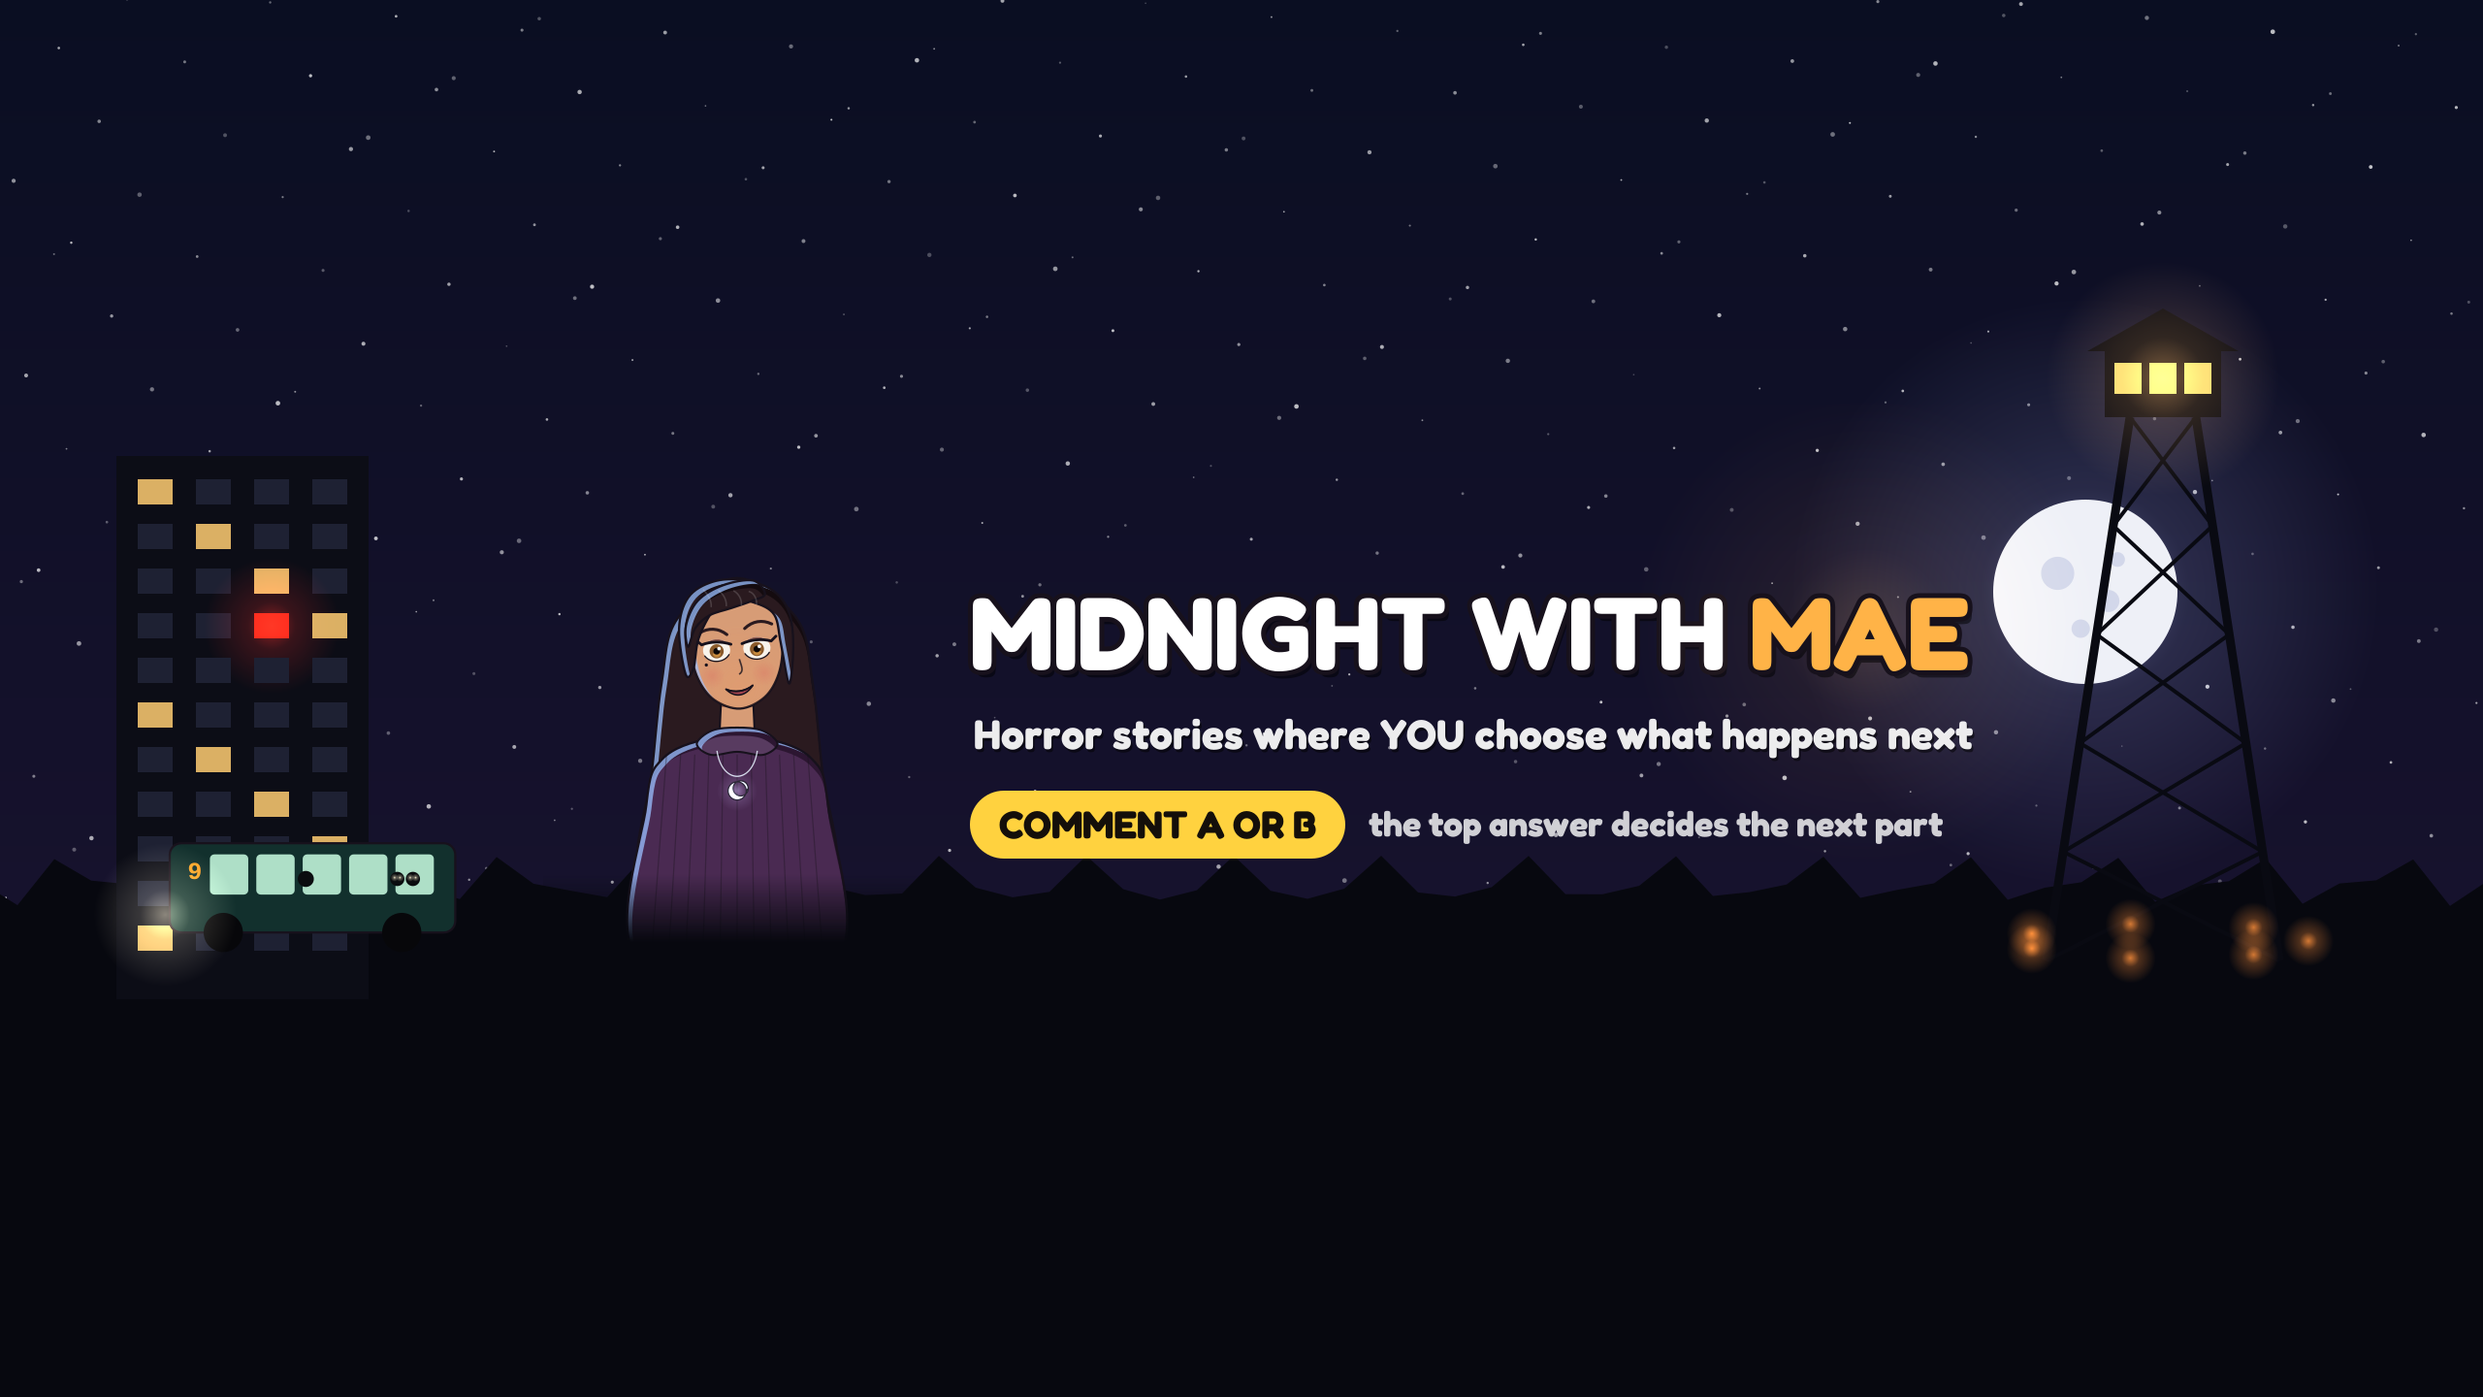
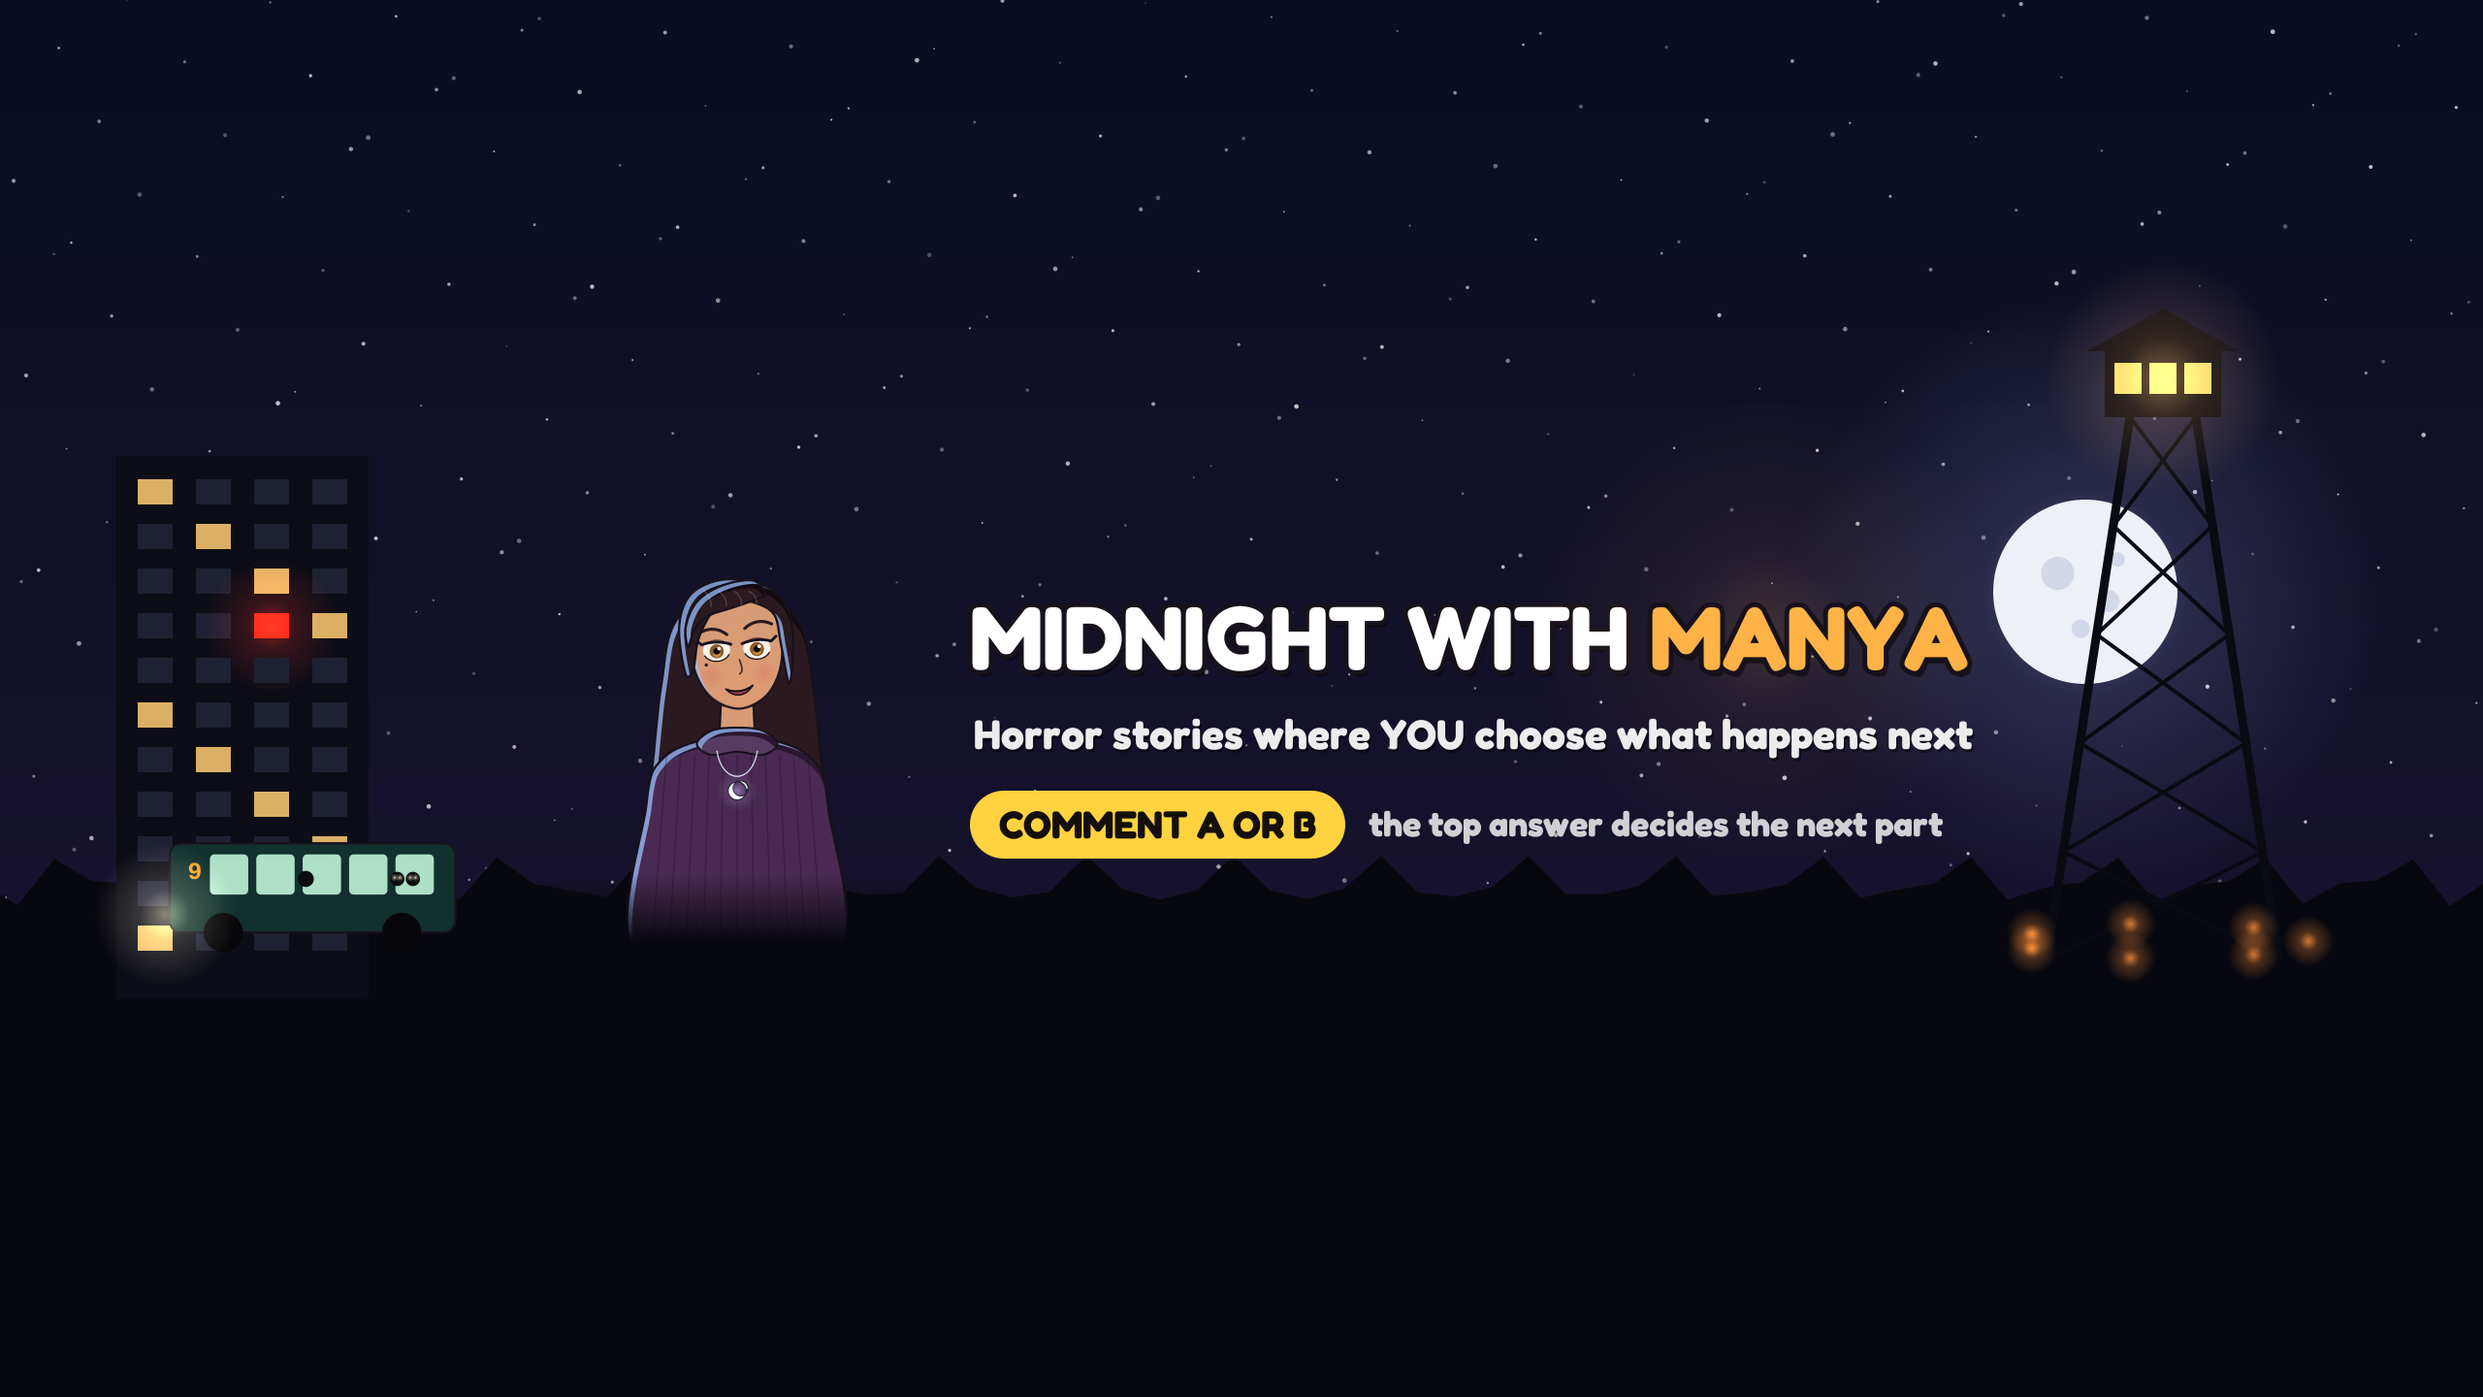
Horror channel: renamed to 'Midnight with Manya' (owner's pick); storyteller, art and setup sheet updated
Claude-Session: https://claude.ai/code/session_0153qDV4AufFgT2PhEBEfS8n

Changed region(s): [[0.375, 0.4062, 0.8125, 0.5]]

diff --git a/channels/horror/toon2d.py b/channels/horror/toon2d.py
@@ -977,19 +977,19 @@ def pale_face(cr, x, y, s, t, a=1.0, cap=False, tilt=0.0, seed=0):
     cr.restore()
 
 
-# ------------------------------------------------------------------ Mae, the channel's storyteller (a fictional character)
-MAE_SKIN, MAE_SKIN_D = hexa("#d79c76"), hexa("#a86c50")
-MAE_HAIR, MAE_HAIR_D = hexa("#2a1a1f"), hexa("#140b0f")
-MAE_KNIT, MAE_KNIT_D = hexa("#4a2a52"), hexa("#2c1631")
-MAE_LIP = hexa("#a3434d")
+# ------------------------------------------------------------------ Manya, the channel's storyteller (a fictional character)
+MANYA_SKIN, MANYA_SKIN_D = hexa("#d79c76"), hexa("#a86c50")
+MANYA_HAIR, MANYA_HAIR_D = hexa("#2a1a1f"), hexa("#140b0f")
+MANYA_KNIT, MANYA_KNIT_D = hexa("#4a2a52"), hexa("#2c1631")
+MANYA_LIP = hexa("#a3434d")
 
 
-def mae_bust(cr, x, y, s, t, look=(0.0, 0.0), smile=0.6, wink=0.0, light=(0, 16), rim=(0.6, 0.75, 1.0, 0.75),
+def manya_bust(cr, x, y, s, t, look=(0.0, 0.0), smile=0.6, wink=0.0, light=(0, 16), rim=(0.6, 0.75, 1.0, 0.75),
              rim_from=(-10, -8), skin=None):
-    """Mae from the chest up (x, y = the base of the neck): long dark waves, a knowing half smile, a plum knit and a
+    """Manya from the chest up (x, y = the base of the neck): long dark waves, a knowing half smile, a plum knit and a
     silver crescent-moon pendant. Default light: warm from below (her lantern) with cold moonlight rim from behind."""
-    sk = skin or MAE_SKIN
-    sk_d = MAE_SKIN_D if skin is None else mix(sk, (0, 0, 0, 1), 0.3)
+    sk = skin or MANYA_SKIN
+    sk_d = MANYA_SKIN_D if skin is None else mix(sk, (0, 0, 0, 1), 0.3)
     cr.save()
     cr.translate(x, y)
     cr.scale(s, s)
@@ -997,10 +997,10 @@ def mae_bust(cr, x, y, s, t, look=(0.0, 0.0), smile=0.6, wink=0.0, light=(0, 16)
     # long hair behind the shoulders
     toon(cr, lambda c: curve(c, [(-118, -250), (-150, -120), (-170, 60), (-196, 230), (-120, 250), (-70, 120),
                                  (70, 120), (120, 250), (196, 230), (170, 60), (150, -120), (118, -250), (0, -330)]),
-         MAE_HAIR, MAE_HAIR_D, light, rim, rim_from)
+         MANYA_HAIR, MANYA_HAIR_D, light, rim, rim_from)
     # the knit top
     toon(cr, lambda c: curve(c, [(-56, -10 + up), (-148, 30 + up), (-180, 120), (-192, 430), (192, 430), (180, 120),
-                                 (148, 30 + up), (56, -10 + up)]), MAE_KNIT, MAE_KNIT_D, light, rim, rim_from)
+                                 (148, 30 + up), (56, -10 + up)]), MANYA_KNIT, MANYA_KNIT_D, light, rim, rim_from)
     cr.set_source_rgba(*INK[:3], 0.35)                     # ribbing
     cr.set_line_width(2.5)
     for k in range(-5, 6):
@@ -1009,8 +1009,8 @@ def mae_bust(cr, x, y, s, t, look=(0.0, 0.0), smile=0.6, wink=0.0, light=(0, 16)
         cr.stroke()
     toon(cr, lambda c: poly(c, [(-32, -84), (32, -84), (36, 2), (-36, 2)]), sk, sk_d, (0, 10), None, lw=4)
     toon(cr, lambda c: curve(c, [(-80, 0 + up), (-50, -26 + up), (0, -32 + up), (50, -26 + up), (80, 0 + up),
-                                 (52, 22 + up), (0, 16 + up), (-52, 22 + up)]), mix(MAE_KNIT, (1, 1, 1, 1), 0.08),
-         MAE_KNIT_D, light, rim, rim_from, lw=4)              # turtleneck roll
+                                 (52, 22 + up), (0, 16 + up), (-52, 22 + up)]), mix(MANYA_KNIT, (1, 1, 1, 1), 0.08),
+         MANYA_KNIT_D, light, rim, rim_from, lw=4)              # turtleneck roll
     cr.set_source_rgba(0.82, 0.84, 0.9, 1)                  # the chain and the crescent moon
     cr.set_line_width(2.5)
     cr.move_to(-40, 14 + up)
@@ -1083,7 +1083,7 @@ def mae_bust(cr, x, y, s, t, look=(0.0, 0.0), smile=0.6, wink=0.0, light=(0, 16)
             cr.line_to(rx + 2, ly)
             cr.curve_to(rx * 0.4, ly - 6, -rx * 0.4, ly - 5, -rx - 2, ly + 2)
             cr.close_path()
-            cr.set_source_rgba(*mix(MAE_SKIN_D, (0.35, 0.2, 0.3, 1), 0.3))
+            cr.set_source_rgba(*mix(MANYA_SKIN_D, (0.35, 0.2, 0.3, 1), 0.3))
             cr.fill()
             cr.restore()
             cr.set_source_rgba(*INK)
@@ -1113,7 +1113,7 @@ def mae_bust(cr, x, y, s, t, look=(0.0, 0.0), smile=0.6, wink=0.0, light=(0, 16)
         cr.save()                                            # thin arched brows, the right one raised
         cr.translate(sx * 42, -50 - (10 if sx > 0 else 0))
         cr.scale(sx, 1)
-        cr.set_source_rgba(*MAE_HAIR)
+        cr.set_source_rgba(*MANYA_HAIR)
         cr.set_line_width(6)
         cr.set_line_cap(cairo.LINE_CAP_ROUND)
         cr.move_to(-24, 6)
@@ -1135,7 +1135,7 @@ def mae_bust(cr, x, y, s, t, look=(0.0, 0.0), smile=0.6, wink=0.0, light=(0, 16)
     cr.curve_to(-10, 6 + 4 * smile, 12, 6 + 2 * smile, 28, -8 * smile)
     cr.curve_to(12, 14 + 6 * smile, -10, 16 + 4 * smile, -26, 0)
     cr.close_path()
-    cr.set_source_rgba(*MAE_LIP)
+    cr.set_source_rgba(*MANYA_LIP)
     cr.fill_preserve()
     cr.set_source_rgba(*INK)
     cr.set_line_width(3)
@@ -1148,9 +1148,9 @@ def mae_bust(cr, x, y, s, t, look=(0.0, 0.0), smile=0.6, wink=0.0, light=(0, 16)
     # front hair: a side part, waves framing the face, one loose strand
     toon(cr, lambda c: curve(c, [(-104, 30), (-112, -60), (-90, -122), (-40, -150), (20, -150), (78, -126), (108, -80),
                                  (112, -10), (100, 60), (88, -20), (78, -78), (40, -104), (-6, -112), (-40, -96),
-                                 (-74, -40), (-88, 20)]), MAE_HAIR, MAE_HAIR_D, light, rim, rim_from)
+                                 (-74, -40), (-88, 20)]), MANYA_HAIR, MANYA_HAIR_D, light, rim, rim_from)
     toon(cr, lambda c: curve(c, [(40, -148), (-20, -142), (-72, -114), (-98, -66), (-96, -24), (-80, -60), (-50, -84),
-                                 (-6, -96), (36, -108), (62, -120)]), MAE_HAIR, MAE_HAIR_D, light, rim, rim_from)  # side fringe
+                                 (-6, -96), (36, -108), (62, -120)]), MANYA_HAIR, MANYA_HAIR_D, light, rim, rim_from)  # side fringe
     cr.set_source_rgba(1, 1, 1, 0.16)                        # shine
     cr.set_line_width(3)
     for k in range(4):

diff --git a/channels/horror/brand.py b/channels/horror/brand.py
@@ -1,5 +1,5 @@
-"""Channel art for the horror channel ("Midnight with Mae", suggested 25 Oct 2026): the profile picture and the banner,
-drawn in the same 2D style as the episodes. Mae is a fictional storyteller (toon2d.mae_bust).
+"""Channel art for the horror channel ("Midnight with Manya", the owner's pick, 25 Oct 2026): the profile picture and the banner,
+drawn in the same 2D style as the episodes. Manya is a fictional storyteller (toon2d.manya_bust).
 
     /home/user/.venv-main/bin/python channels/horror/brand.py   -> out/horror/channel/avatar.png, banner.png
 """
@@ -17,7 +17,7 @@ from channels.horror import hud2d   # noqa: E402
 from channels.horror import toon2d as tk   # noqa: E402
 from channels.horror.toon2d import INK, glow, hexa, poly   # noqa: E402
 
-NAME = "MIDNIGHT WITH MAE"
+NAME = "MIDNIGHT WITH MANYA"
 OUT = os.path.join(ROOT, "out", "horror", "channel")
 AMBER = hexa("#ffb347")
 
@@ -54,7 +54,7 @@ def avatar(path, size=800):
     sky(cr, size, size, seed=3)
     moon(cr, 590, 230, 120)
     glow(cr, 400, 900, 520, (1, 0.6, 0.3), 0.45)             # her lantern, below the frame
-    tk.mae_bust(cr, 400, 640, 1.55, 0.0)
+    tk.manya_bust(cr, 400, 640, 1.55, 0.0)
     g = cairo.RadialGradient(400, 400, 300, 400, 400, 420)     # keep the edge of the circle dark
     g.add_color_stop_rgba(0, 0, 0, 0, 0)
     g.add_color_stop_rgba(1, 0, 0, 0, 0.45)
@@ -153,7 +153,7 @@ def banner(path, w=2560, h=1440):
     skyline(cr, w, h, ground)
     bus(cr, 175, 975, 0.46)
     sx0, sy0, sx1, sy1 = 507, 508, 2053, 931                 # the safe area
-    tk.mae_bust(cr, 760, sy1 - 430 * 0.52 + 60, 0.52, 0.0)
+    tk.manya_bust(cr, 760, sy1 - 430 * 0.52 + 60, 0.52, 0.0)
     g = cairo.LinearGradient(0, sy1 - 30, 0, sy1 + 40)       # she sits behind the dark of the ground
     g.add_color_stop_rgba(0, *hexa("#07080f", 0))
     g.add_color_stop_rgba(1, *hexa("#07080f"))
@@ -166,7 +166,7 @@ def banner(path, w=2560, h=1440):
     hud2d._text(cr, "MIDNIGHT WITH ", tx, 690, size, (1, 1, 1, 1), hud2d.ROUND, outline=INK, ow=10, shadow=0.5)
     mx = tx + text_width(cr, "MIDNIGHT WITH ", size, hud2d.ROUND)
     glow(cr, mx + 120, 650, 240, AMBER, 0.18)
-    hud2d._text(cr, "MAE", mx, 690, size, AMBER, hud2d.ROUND, outline=INK, ow=10, shadow=0.5)
+    hud2d._text(cr, "MANYA", mx, 690, size, AMBER, hud2d.ROUND, outline=INK, ow=10, shadow=0.5)
     sub = "Horror stories where YOU choose what happens next"
     ss = min(46.0, 46 * (sx1 - tx - 20) / text_width(cr, sub, 46, hud2d.ROUND))
     hud2d._text(cr, sub, tx + 4, 772, ss, (1, 1, 1, 0.92), hud2d.ROUND, shadow=0.5)

diff --git a/out/horror/channel/setup.md b/out/horror/channel/setup.md
@@ -1,12 +1,12 @@
-# Midnight with Mae: channel setup (about 10 minutes)
+# Midnight with Manya: channel setup (about 10 minutes)
 
 Files in this folder: `avatar.png` (profile picture, 800 x 800) and `banner.png` (2560 x 1440; the name and text sit
 in the centre strip every device shows).
 
 ## 1. The Gmail (you do this: Google verifies it with your phone)
 1. Go to accounts.google.com/signup and choose "For my personal use".
-2. Name: First name `Midnight`, last name `with Mae` (keeps your own name off the channel).
-3. Username, try in this order: `midnightwithmae`, `midnightwithmae.stories`, `maemidnightstories`.
+2. Name: First name `Midnight`, last name `with Manya` (keeps your own name off the channel).
+3. Username, try in this order: `midnightwithmanya`, `midnightwithmanya.stories`, `manyaatmidnight`.
 4. Recovery phone and recovery email: your own.
 5. Straight after: myaccount.google.com, then Security, then turn on 2-Step Verification.
 
@@ -14,7 +14,7 @@ Keep the password to yourself (a password manager is best). Nobody else needs it
 
 ## 2. The YouTube channel
 1. Signed in with the new Gmail, open youtube.com, tap the profile picture, then "Create a channel".
-2. Name: `Midnight with Mae`. Handle: `@MidnightWithMae` (nobody had it on 25 Oct 2026; claim it now).
+2. Name: `Midnight with Manya`. Handle: `@MidnightWithManya` (nobody had it on 25 Oct 2026; claim it now).
 3. Upload `avatar.png` as the picture and `banner.png` as the banner.
 4. YouTube Studio, then Customization, then Basic info: paste the description below; contact email = the new Gmail.
 5. Studio, then Settings, then Channel:
@@ -26,18 +26,18 @@ Keep the password to yourself (a password manager is best). Nobody else needs it
 
 ## Channel description (paste as is)
 ```
-Hi, I'm Mae. Every story here happens to YOU: the elevator that stops on a floor your building doesn't have, the last bus that isn't in service, the radio that calls for help in your own voice.
+Hi, I'm Manya. Every story here happens to YOU: the elevator that stops on a floor your building doesn't have, the last bus that isn't in service, the radio that calls for help in your own voice.
 
 Each story stops at a choice. Comment A or B. The answer most of you pick decides what happens next.
 
 Original horror stories in 2D animation. Suspense, not gore.
 
-Mae is a fictional storyteller, and the stories are fiction. Narration uses synthetic voices.
+Manya is a fictional storyteller, and the stories are fiction. Narration uses synthetic voices.
 ```
 
 ## Keywords (paste as is)
 ```
-horror stories, interactive horror, you decide, choose your ending, scary stories, animated horror, 2d animation, creepy stories, horror shorts, comment a or b, Midnight with Mae
+horror stories, interactive horror, you decide, choose your ending, scary stories, animated horror, 2d animation, creepy stories, horror shorts, comment a or b, Midnight with Manya
 ```
 
 ## Posting the three episodes

diff --git a/channels/horror/README.md b/channels/horror/README.md
@@ -64,11 +64,12 @@ both hands, background blur, A/B ending card). About 2-3 min per episode to rend
 - Owner on the 2D Tower 9 (25 Oct): "Tower 9 is better now". Keep what it has: warm practical light (bulb, lantern,
   LCD) against the cold storm, objects that tell the story close up (radio, logbook writing itself, clock, fuel gauge,
   hatch), the outfit detail paid off in the lightning, and the mix fixes above.
-- Channel name (owner asked for "unique channel name with human touch"): suggested **Midnight with Mae** (@MidnightWithMae
-  was free on 25 Oct); Mae is a fictional storyteller (toon2d.mae_bust), never presented as a real person, and the
-  description says the voices are synthetic. Channel art: `python channels/horror/brand.py` -> out/horror/channel/
-  (avatar.png, banner.png); setup steps, description and keywords: out/horror/channel/setup.md. The owner creates the
-  Gmail and channel (phone verification); never ask for their password.
+- Channel name: **Midnight with Manya** (owner, 25 Oct 2026, after rejecting "Mae" as too common: "Midnight with
+  manya"). @MidnightWithManya was free that day and the name had no web results. Manya is a fictional storyteller
+  (toon2d.manya_bust), never presented as a real person; the description says the voices are synthetic. Channel art:
+  `python channels/horror/brand.py` -> out/horror/channel/ (avatar.png, banner.png); setup steps, description and
+  keywords: out/horror/channel/setup.md. The owner creates the Gmail and channel (phone verification); never ask for
+  their password.
 - Next (owner, 25 Oct: "Yes do the Quaternius and vrm avatar model test after these"): a 15 s test with Quaternius CC0
   bodies + animations (build/assets3d/uaf: Universal Animation Library 1 and 2, standard, from opengameart.org; 89 clips
   incl. Driving, Idle_Torch, Sitting, Crouch, Hit_Head, Idle_TalkingPhone, ClimbUp, Zombie_Walk) and a VRM face
